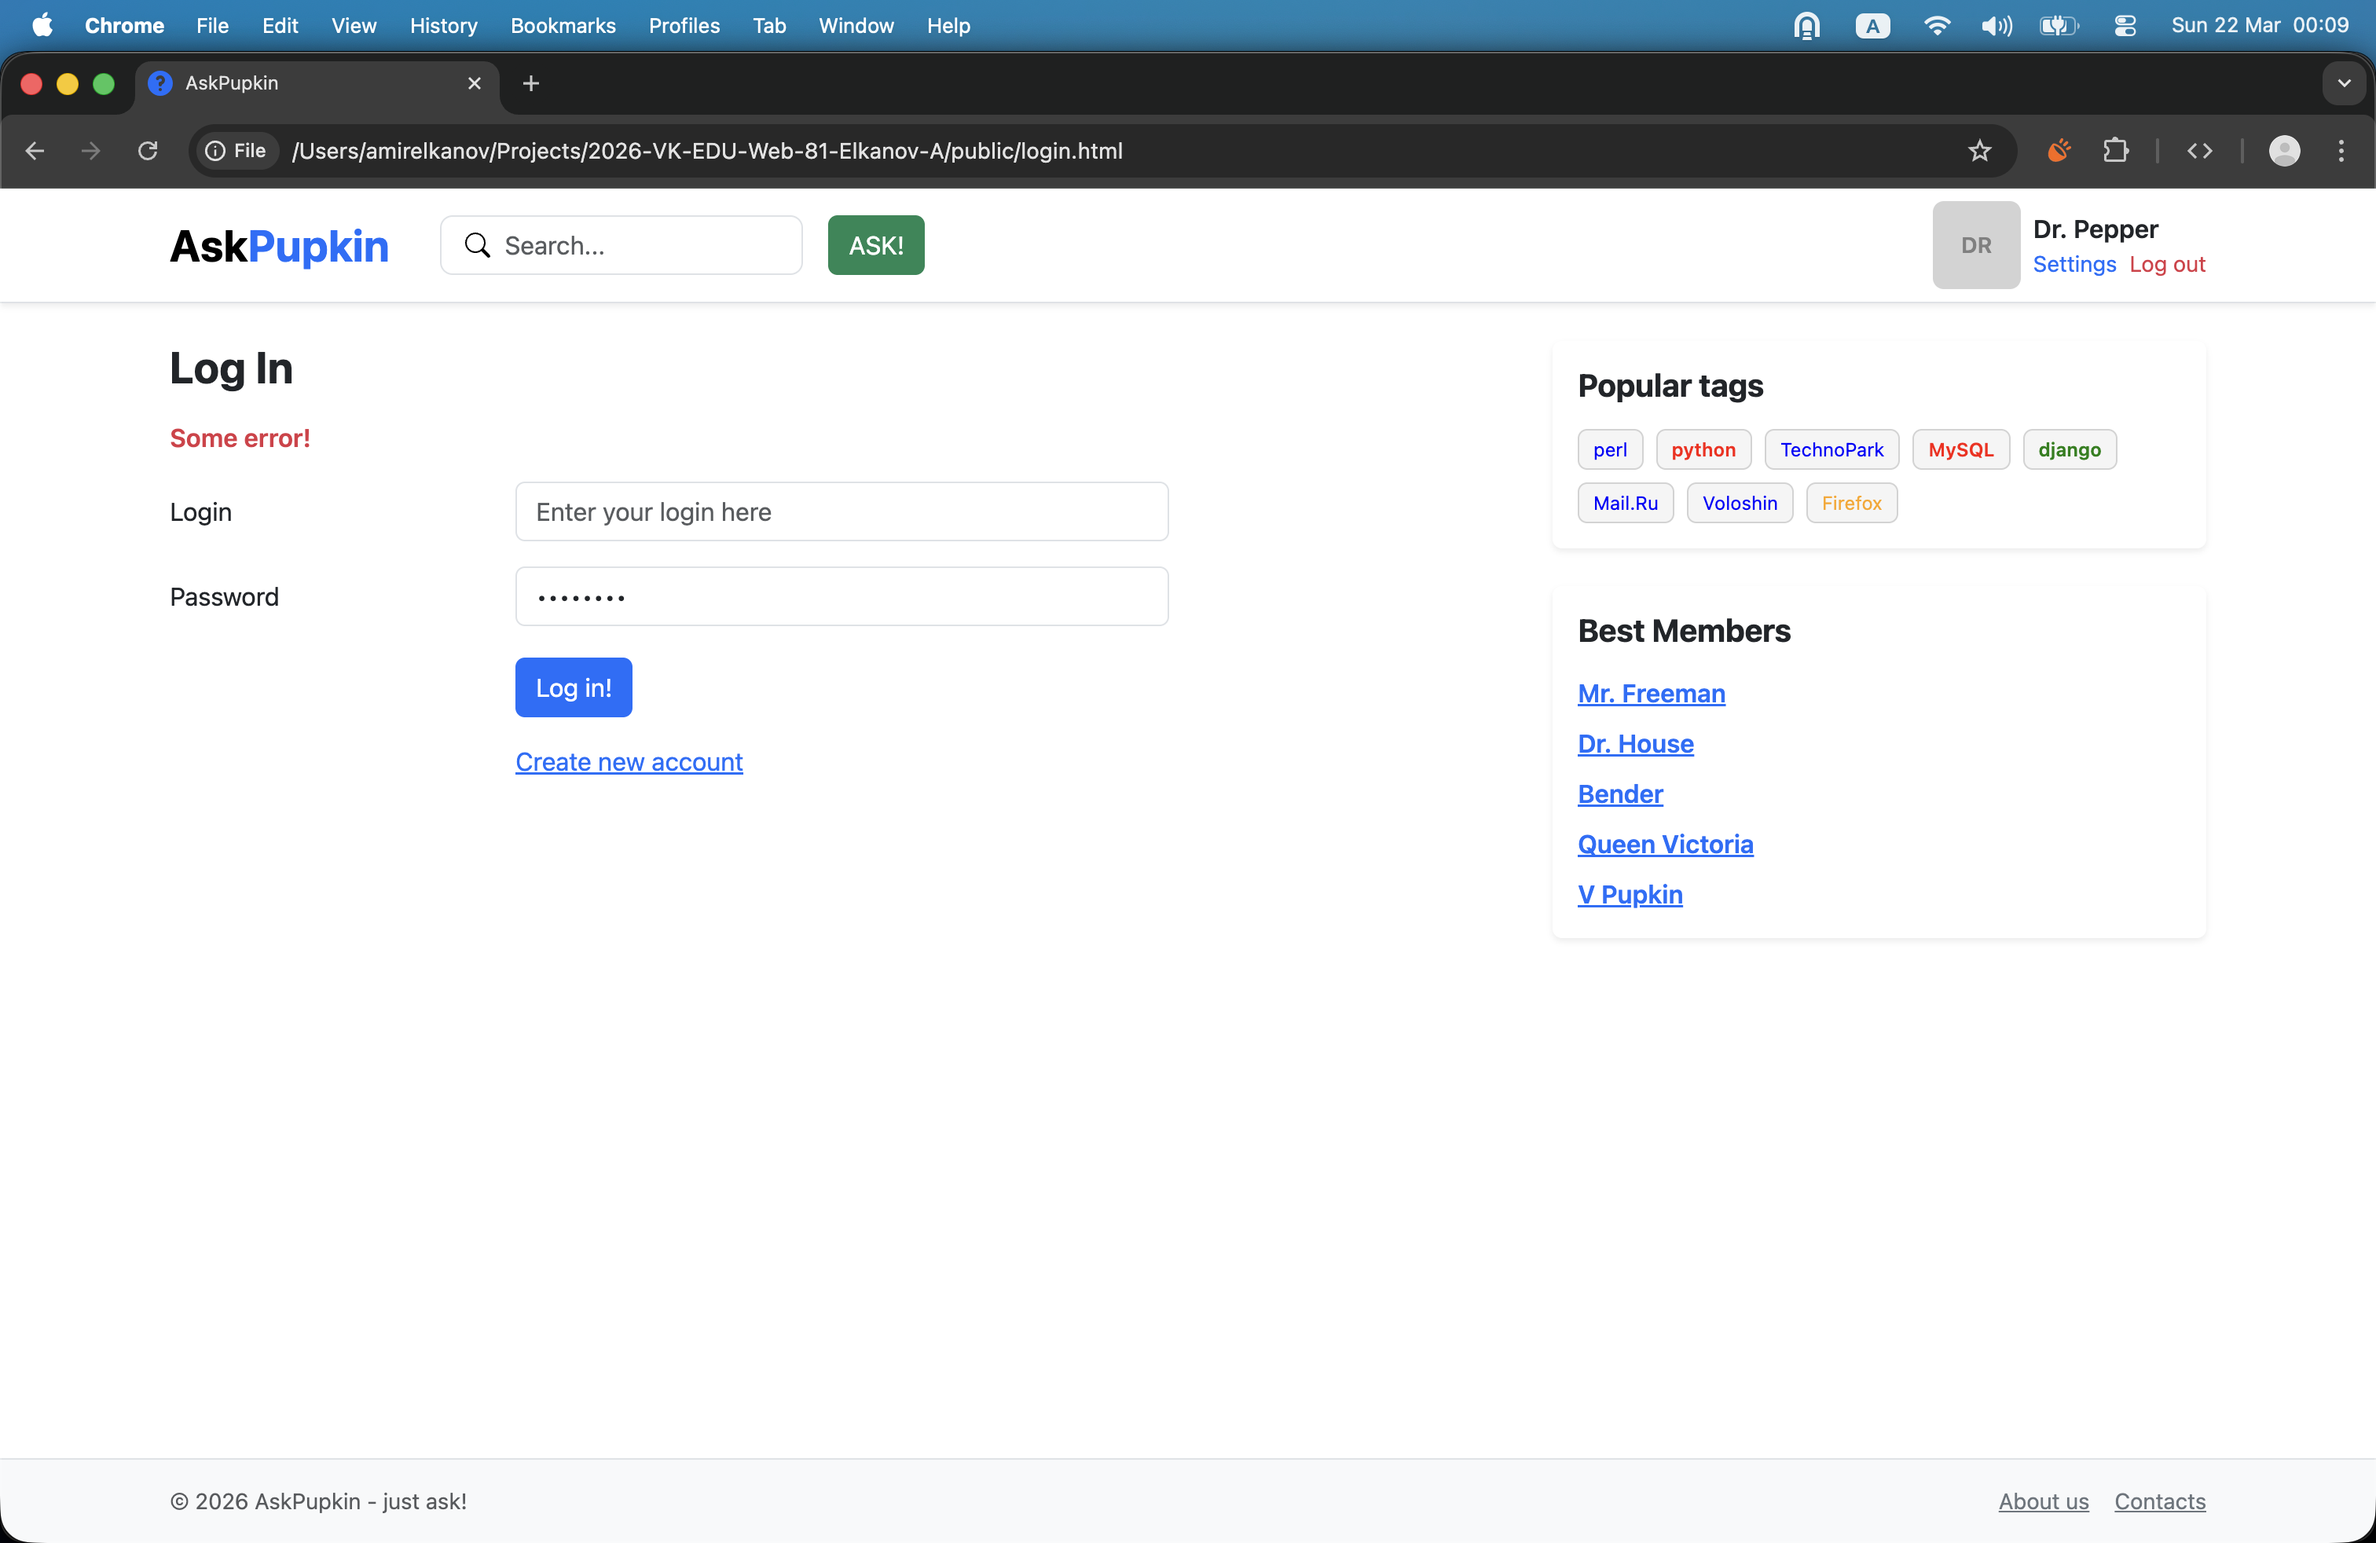
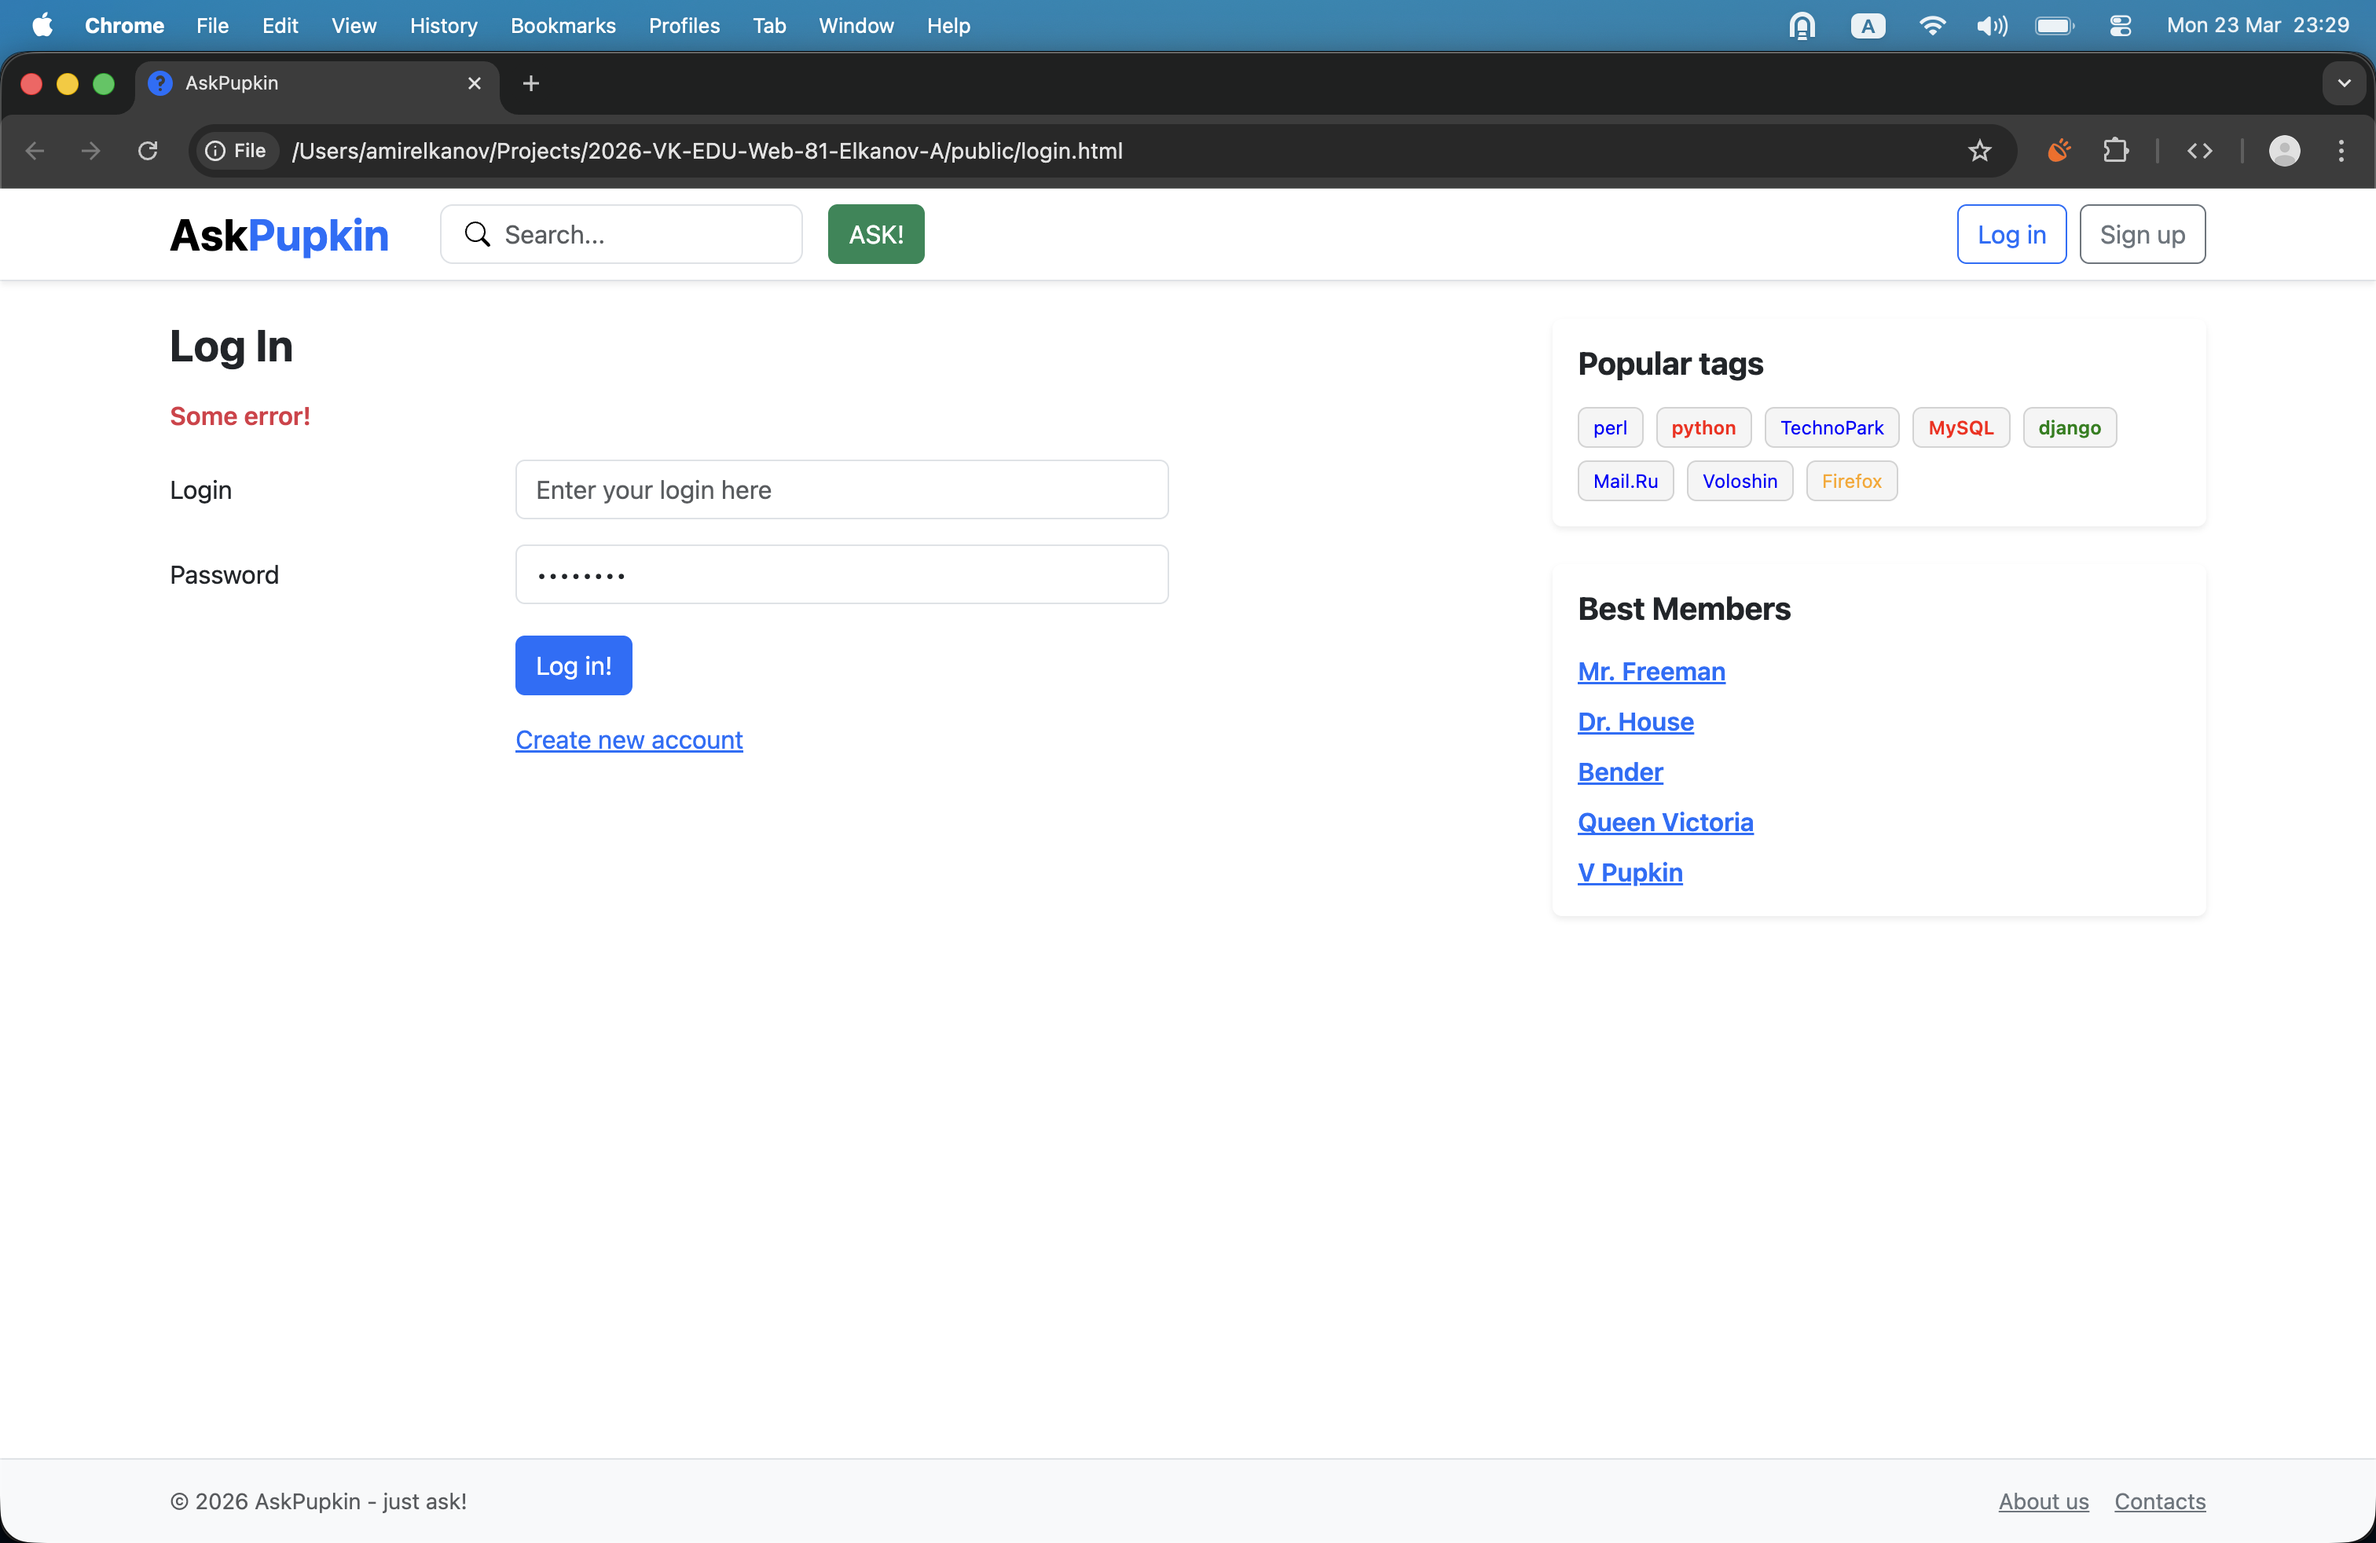
added sign up & login buttons on auth pages

diff --git a/public/login.html b/public/login.html
@@ -33,7 +33,7 @@
 
         <div class="d-flex align-items-center gap-2 ms-auto">
           <!-- Authorized user -->
-          <div class="d-flex align-items-center gap-2">
+          <!-- <div class="d-flex align-items-center gap-2">
             <div class="avatar-placeholder small">DR</div>
 
             <div class="d-flex d-sm-none flex-column">
@@ -52,13 +52,13 @@
               <a href="settings.html" class="text-primary text-decoration-none">Settings</a>
               <a href="login.html" class="text-danger text-decoration-none">Log out</a>
             </div>
-          </div>
+          </div> -->
 
           <!-- Unauthorized user -->
-          <!-- 
+          
             <a href="login.html" class="btn btn-outline-primary">Log in</a>
             <a href="signup.html" class="btn btn-outline-secondary">Sign up</a>
-            -->
+           
         </div>
       </div>
     </div>

diff --git a/public/signup.html b/public/signup.html
@@ -33,7 +33,7 @@
 
         <div class="d-flex align-items-center gap-2 ms-auto">
           <!-- Authorized user -->
-          <div class="d-flex align-items-center gap-2">
+          <!-- <div class="d-flex align-items-center gap-2">
             <div class="avatar-placeholder small">DR</div>
 
             <div class="d-flex d-sm-none flex-column">
@@ -52,13 +52,13 @@
               <a href="settings.html" class="text-primary text-decoration-none">Settings</a>
               <a href="login.html" class="text-danger text-decoration-none">Log out</a>
             </div>
-          </div>
+          </div> -->
 
           <!-- Unauthorized user -->
-          <!-- 
+          
             <a href="login.html" class="btn btn-outline-primary">Log in</a>
             <a href="signup.html" class="btn btn-outline-secondary">Sign up</a>
-            -->
+           
         </div>
       </div>
     </div>
